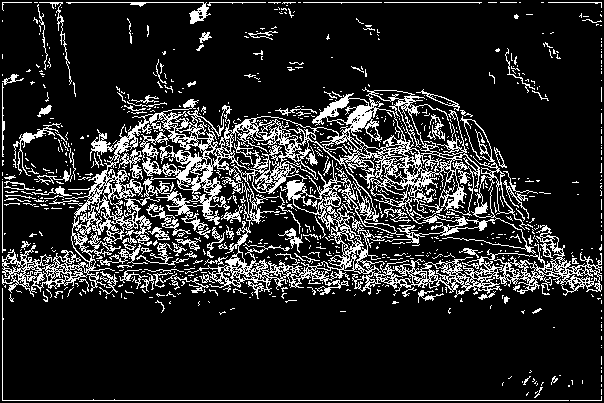
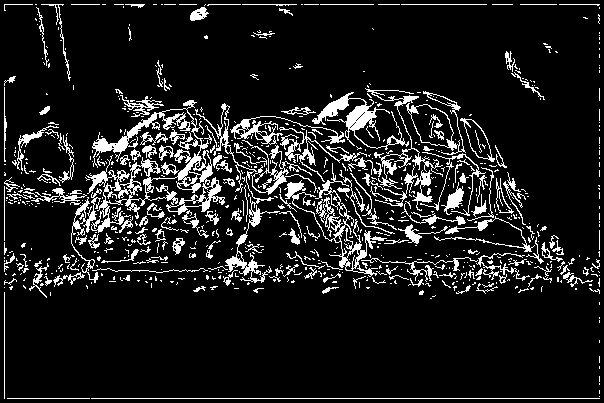
0.7.4 размытие гауса переделано

diff --git a/CannyProject/CannyProject/Canny.cs b/CannyProject/CannyProject/Canny.cs
@@ -281,9 +281,7 @@ namespace CannyProject
 
         private int[,] GetGaussianFilterImage(int[,] greyImage)
         {
-            int kernelWeight;
-            var gaussianKernel = GetGaussianKernel(_mainKoeefficient.KernelSize, _mainKoeefficient.Sigma,
-                                                   out kernelWeight);
+            var gaussianKernel = GetGaussianKernel(_mainKoeefficient.KernelSize, _mainKoeefficient.Sigma);
             int limit = _mainKoeefficient.KernelSize/2;
             int[,] output = greyImage;
 
@@ -296,24 +294,19 @@ namespace CannyProject
                     {
                         for (var l = -limit; l < limit; l++)
                         {
-                            sum = sum + ((float)greyImage[i + k, j + l] * gaussianKernel[limit + k, limit + l]);
+                            sum = sum + (greyImage[i + k, j + l] * gaussianKernel[limit + k, limit + l]);
                         }
                     }
-                    output[i, j] = (int) (Math.Round(sum/kernelWeight));
+                    output[i, j] = (int) (Math.Round(sum));
                 }
             }
             return output;
         }
 
-        private int[,] GetGaussianKernel(int kernelSize, float sigma, out int Weight)
+        private float[,] GetGaussianKernel(int kernelSize, float sigma)
         {
-            float pi;
-            pi = (float) Math.PI;
-
             var kernel = new float[kernelSize, kernelSize];
-            var gaussianKernel = new int[kernelSize, kernelSize];
-
-            float d1 = 2*pi*sigma*sigma;
+            float d1 = 2*(float) Math.PI*sigma*sigma;
             float d2 = 2*sigma*sigma;
             float min = 1000;
             var shift = kernelSize/2;
@@ -323,31 +316,14 @@ namespace CannyProject
                 {
                     var x = i - shift;
                     var y = j - shift;
-                    kernel[i, j] =((1/d1)*(float) Math.Exp(-(x*x + y*y)/d2));
+                    kernel[i, j] = ((1/d1)*(float) Math.Exp(-(x*x + y*y)/d2));
                     if (kernel[i, j] < min)
                     {
                         min = kernel[i, j];
                     }
                 }
             }
-            int mult = (int) (1/min);
-            int sum = 0;
-            if ((min > 0) && (min < 1))
-            {
-                for (var i = 0; i < kernelSize; i++)
-                {
-                    for (var j = 0; j < kernelSize; j++)
-                    {
-                        kernel[i, j] = (float)Math.Round(kernel[i, j] * mult, 0);
-                        gaussianKernel[i, j] = (int)kernel[i, j];
-                        sum = sum + gaussianKernel[i, j];
-                    }
-                }
-            }
-            //Normalizing kernel Weight
-            Weight = sum;
-
-            return gaussianKernel;
+            return kernel;
         }
 
         private float[,] GetDifferentiateX(int[,] gaussianFilterImage)
